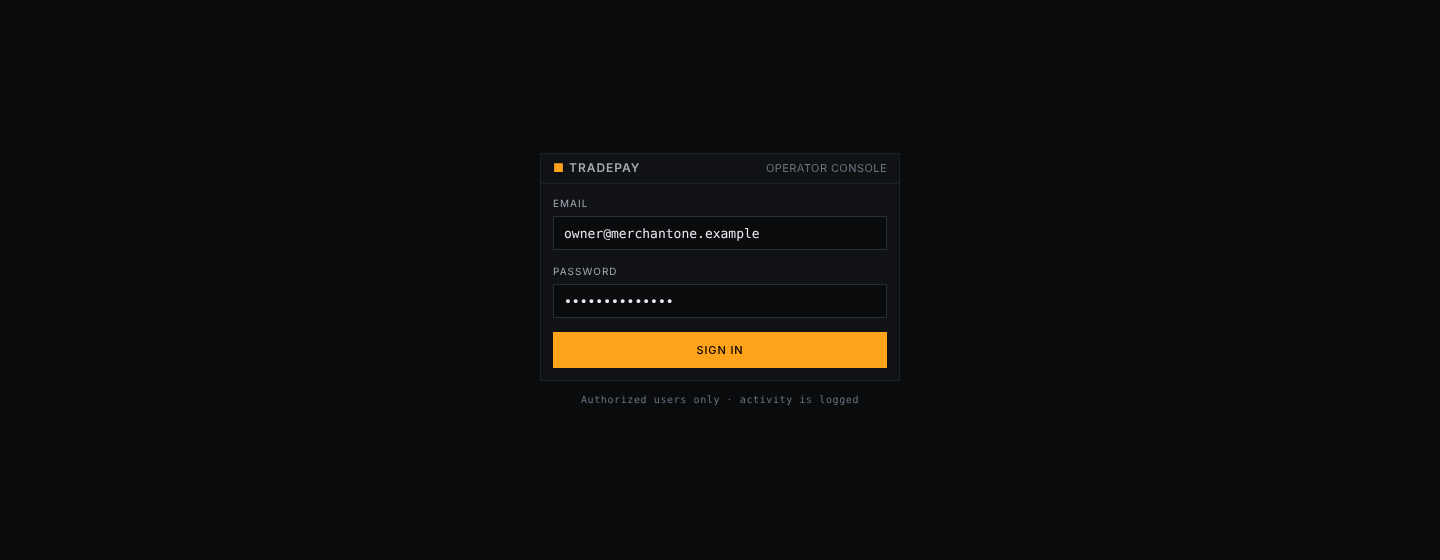
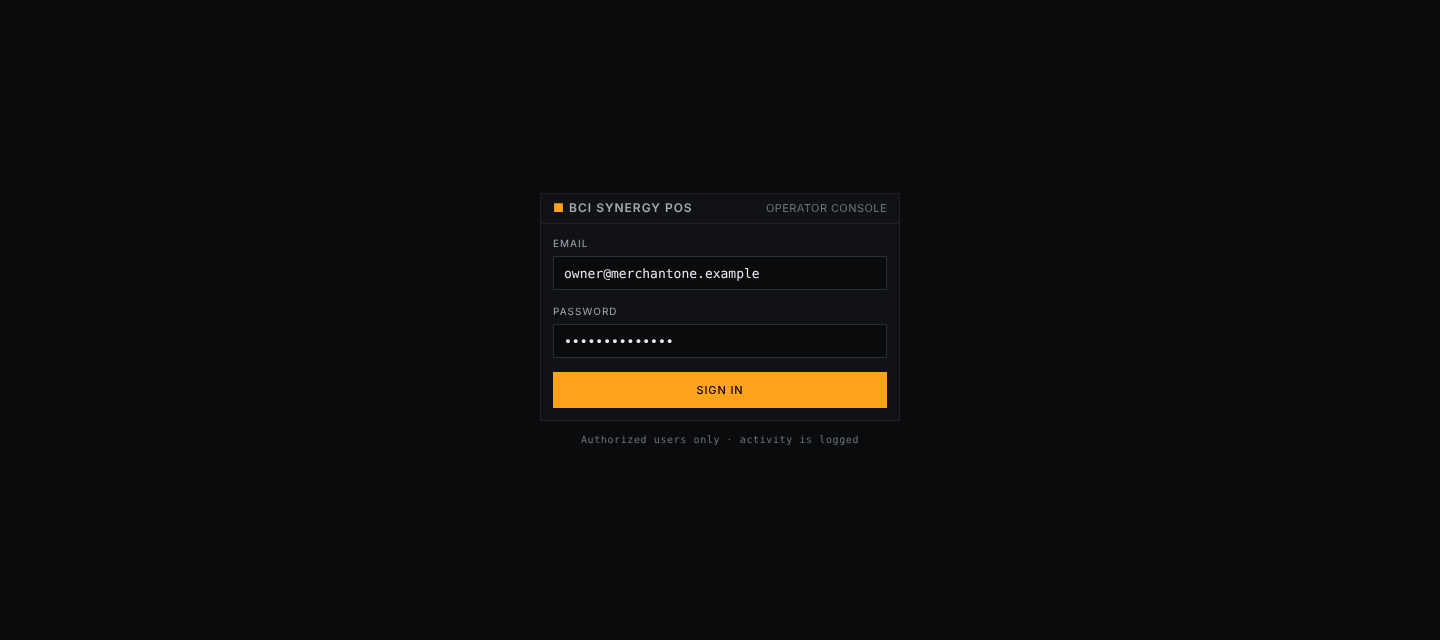
Rebrand to BCI Synergy POS
- Display name, page titles, pay page footer, previews
- Outbound webhook header: TradePay-Signature -> BCI-Signature
- API key prefix: tp_ -> bci_ (new keys only; existing keys still verify by hash)
- Package + default database name

Claude-Session: https://claude.ai/code/session_01Km3b9todDZA2vtKPBXto2d

Changed region(s): [[0.375, 0.3643, 0.625, 0.7286], [0.5312, 0.2732, 0.625, 0.3339], [0.375, 0.2732, 0.5, 0.3339]]

diff --git a/design/login-preview.html b/design/login-preview.html
@@ -1,5 +1,5 @@
 <!doctype html><html><head><meta charset=utf-8><style>/* ==========================================================================
-   TradePay design system — "terminal": crisp, dense, data-first.
+   BCI Synergy POS design system — "terminal": crisp, dense, data-first.
    Square corners, hairline rules, tabular numerals, one accent.
    Fonts: IBM Plex Sans / Plex Mono (self-host in /public/fonts for prod).
    ========================================================================== */
@@ -223,4 +223,4 @@ table.grid { width: 100%; border-collapse: collapse; font-size: 12px; }
 .userbox form { margin: 0; }
 .linkbtn { background: none; border: 0; color: var(--text-3); font: 11px var(--font-sans); letter-spacing: 0.06em; text-transform: uppercase; cursor: pointer; padding: 0; }
 .linkbtn:hover { color: var(--text); }
-</style></head><body><main class=login><div class="login-box panel"><div class=panel-h><span class=brand><b>■</b> TradePay</span><span class=tag>Operator console</span></div><div class=panel-b><form class=login-form><label><span class=field-label>Email</span><input class=input value="owner@merchantone.example"></label><label><span class=field-label>Password</span><input class=input type=password value="••••••••••••••"></label><button class="btn btn-primary">Sign in</button></form></div></div><div class="login-foot mono dim">Authorized users only · activity is logged</div></main></body></html>
+</style></head><body><main class=login><div class="login-box panel"><div class=panel-h><span class=brand><b>■</b> BCI Synergy POS</span><span class=tag>Operator console</span></div><div class=panel-b><form class=login-form><label><span class=field-label>Email</span><input class=input value="owner@merchantone.example"></label><label><span class=field-label>Password</span><input class=input type=password value="••••••••••••••"></label><button class="btn btn-primary">Sign in</button></form></div></div><div class="login-foot mono dim">Authorized users only · activity is logged</div></main></body></html>

diff --git a/design/billing-preview.html b/design/billing-preview.html
@@ -1,5 +1,5 @@
 <!doctype html><html><head><meta charset=utf-8><style>/* ==========================================================================
-   TradePay design system — "terminal": crisp, dense, data-first.
+   BCI Synergy POS design system — "terminal": crisp, dense, data-first.
    Square corners, hairline rules, tabular numerals, one accent.
    Fonts: IBM Plex Sans / Plex Mono (self-host in /public/fonts for prod).
    ========================================================================== */
@@ -224,7 +224,7 @@ table.grid { width: 100%; border-collapse: collapse; font-size: 12px; }
 .linkbtn { background: none; border: 0; color: var(--text-3); font: 11px var(--font-sans); letter-spacing: 0.06em; text-transform: uppercase; cursor: pointer; padding: 0; }
 .linkbtn:hover { color: var(--text); }
 </style></head><body>
-<header class=topbar><div class=brand><b>■</b> TradePay</div><nav class=nav><a>Console</a><a aria-current=page>Elite Billing</a></nav><div class=right><div class=userbox><span class=mono>admin@bcisynergy.com</span><span class='st st-OPEN'>PLATFORM ADMIN</span><button class=linkbtn>Sign out</button></div></div></header>
+<header class=topbar><div class=brand><b>■</b> BCI Synergy POS</div><nav class=nav><a>Console</a><a aria-current=page>Elite Billing</a></nav><div class=right><div class=userbox><span class=mono>admin@bcisynergy.com</span><span class='st st-OPEN'>PLATFORM ADMIN</span><button class=linkbtn>Sign out</button></div></div></header>
 <div class=ticker><span>ELITE MEMBERSHIP BILLING</span><span>DUES<b>$500.00/mo</b></span><span>PERIOD<b>2026-10</b></span><span>RULE<b>Processing revenue credited first · balance invoiced on the 1st</b></span></div>
 <div class=page><div class=kpis>
 <div class=kpi><div class=label>Elite members billed</div><div class=value>7</div><div class=delta>3 fully covered (free)</div></div>

diff --git a/design/console-preview.html b/design/console-preview.html
@@ -1,5 +1,5 @@
-<!doctype html><html><head><meta charset=utf-8><title>TradePay — Console preview</title><style>/* ==========================================================================
-   TradePay design system — "terminal": crisp, dense, data-first.
+<!doctype html><html><head><meta charset=utf-8><title>BCI Synergy POS — Console preview</title><style>/* ==========================================================================
+   BCI Synergy POS design system — "terminal": crisp, dense, data-first.
    Square corners, hairline rules, tabular numerals, one accent.
    Fonts: IBM Plex Sans / Plex Mono (self-host in /public/fonts for prod).
    ========================================================================== */
@@ -205,7 +205,7 @@ table.grid { width: 100%; border-collapse: collapse; font-size: 12px; }
 .result { padding: 32px 24px; text-align: center; }
 .result .big { font-family: var(--font-mono); font-size: 28px; margin: 8px 0; }
 </style></head><body>
-<header class=topbar><div class=brand><b>■</b> TradePay</div><nav class=nav><a aria-current=page>Console</a><a>Payments</a><a>Payouts</a><a>Disputes</a><a>Merchants</a></nav><div class=right><span class=mono>2026-11-13 05:30 UTC</span></div></header>
+<header class=topbar><div class=brand><b>■</b> BCI Synergy POS</div><nav class=nav><a aria-current=page>Console</a><a>Payments</a><a>Payouts</a><a>Disputes</a><a>Merchants</a></nav><div class=right><span class=mono>2026-11-13 05:30 UTC</span></div></header>
 <div class=ticker><span>MERCHANT ONE TOWING</span><span>VERTICAL<b>Towing</b></span><span>STATE<b>FL</b></span><span>PROGRAM<b>Cash Discount</b></span><span>TIER<b class=accent>ELITE</b></span><span>STATUS<b class=up>ACTIVE</b></span><span>PROVIDER<b>TILLED</b></span></div>
 <div class=page>
 <div class=kpis>

diff --git a/design/pay-preview.html b/design/pay-preview.html
@@ -1,5 +1,5 @@
 <!doctype html><html><head><meta charset=utf-8><meta name=viewport content="width=device-width,initial-scale=1"><title>Pay — Merchant One Towing</title><style>/* ==========================================================================
-   TradePay design system — "terminal": crisp, dense, data-first.
+   BCI Synergy POS design system — "terminal": crisp, dense, data-first.
    Square corners, hairline rules, tabular numerals, one accent.
    Fonts: IBM Plex Sans / Plex Mono (self-host in /public/fonts for prod).
    ========================================================================== */
@@ -209,4 +209,4 @@ table.grid { width: 100%; border-collapse: collapse; font-size: 12px; }
 <div class=pay-body><div><div class=price-row><span class=k>Cash / bank price</span><span class=v>$245.00</span></div><div class="price-row total"><span class=k>Card price</span><span class=v>$253.58</span></div></div>
 <div style="display:grid;gap:12px"><div><div class=field-label>Card</div><div class=hosted-field>4242 4242 4242 4242 &nbsp;&nbsp; 12/28 &nbsp;&nbsp; •••</div></div><button class="btn btn-primary">Pay now</button></div>
 <div class=disclosure>Prices shown are card prices. A discount is available when paying by cash or bank transfer (ACH). Card details are entered directly with our PCI-compliant payment processor and never stored by Merchant One Towing.</div></div>
-<div class=pay-foot><span>Secure payment</span><span>TradePay</span></div></div></div></main></body></html>
+<div class=pay-foot><span>Secure payment</span><span>BCI Synergy POS</span></div></div></div></main></body></html>

diff --git a/src/lib/services/outbound.ts b/src/lib/services/outbound.ts
@@ -3,7 +3,7 @@ import { randomToken, signWebhook } from "../crypto";
 
 /**
  * Deliver signed events to integrating systems (your dispatch SaaS, FSM, shop software).
- * Header: TradePay-Signature: t=<unix>,v1=<hmac_sha256(secret, t + "." + body)>
+ * Header: BCI-Signature: t=<unix>,v1=<hmac_sha256(secret, t + "." + body)>
  * Prod: move to a durable queue (e.g. pg-boss / SQS) with retries + backoff.
  */
 export async function emitEvent(merchantId: string, type: string, data: Record<string, unknown>) {
@@ -15,7 +15,7 @@ export async function emitEvent(merchantId: string, type: string, data: Record<s
     targets.map(async (e) => {
       const res = await fetch(e.url, {
         method: "POST",
-        headers: { "content-type": "application/json", "TradePay-Signature": signWebhook(e.secret, body) },
+        headers: { "content-type": "application/json", "BCI-Signature": signWebhook(e.secret, body) },
         body,
         signal: AbortSignal.timeout(5000),
       });

diff --git a/src/app/dashboard/Shell.tsx b/src/app/dashboard/Shell.tsx
@@ -21,7 +21,7 @@ export function Shell({
   return (
     <>
       <header className="topbar">
-        <div className="brand"><b>■</b> {process.env.BRAND_NAME ?? "TradePay"}</div>
+        <div className="brand"><b>■</b> {process.env.BRAND_NAME ?? "BCI Synergy POS"}</div>
         <nav className="nav">
           {NAV.filter((n) => !n.roles || n.roles.includes(user.role)).map((n) => (
             <a key={n.key} href={n.href} aria-current={active === n.key ? "page" : undefined}>{n.label}</a>

diff --git a/src/app/login/page.tsx b/src/app/login/page.tsx
@@ -10,7 +10,7 @@ export default async function LoginPage() {
     <main className="login">
       <div className="login-box panel">
         <div className="panel-h">
-          <span className="brand"><b>■</b> {process.env.BRAND_NAME ?? "TradePay"}</span>
+          <span className="brand"><b>■</b> {process.env.BRAND_NAME ?? "BCI Synergy POS"}</span>
           <span className="tag">Operator console</span>
         </div>
         <div className="panel-b">

diff --git a/src/app/globals.css b/src/app/globals.css
@@ -1,5 +1,5 @@
 /* ==========================================================================
-   TradePay design system — "terminal": crisp, dense, data-first.
+   BCI Synergy POS design system — "terminal": crisp, dense, data-first.
    Square corners, hairline rules, tabular numerals, one accent.
    Fonts: IBM Plex Sans / Plex Mono (self-host in /public/fonts for prod).
    ========================================================================== */

diff --git a/src/lib/crypto.ts b/src/lib/crypto.ts
@@ -11,7 +11,7 @@ export function sha256(s: string): string {
 /** Returns full key (show once) + prefix + hash (store). */
 export function generateApiKey(env: "live" | "test" = "test") {
   const secret = randomToken(32);
-  const prefix = `tp_${env}_${secret.slice(0, 8)}`;
+  const prefix = `bci_${env}_${secret.slice(0, 8)}`;
   const key = `${prefix}_${secret.slice(8)}`;
   return { key, prefix, hash: sha256(key) };
 }

diff --git a/src/lib/auth.ts b/src/lib/auth.ts
@@ -7,7 +7,7 @@ export class HttpError extends Error {
   }
 }
 
-/** Integration API auth: `Authorization: Bearer tp_test_...` → merchant. */
+/** Integration API auth: `Authorization: Bearer bci_test_...` → merchant. */
 export async function requireMerchantKey(req: Request) {
   const h = req.headers.get("authorization") ?? "";
   const key = h.startsWith("Bearer ") ? h.slice(7).trim() : "";

diff --git a/src/app/pay/[token]/page.tsx b/src/app/pay/[token]/page.tsx
@@ -70,7 +70,7 @@ export default async function PayPage({ params }: { params: { token: string } })
 
           <div className="pay-foot">
             <span>Secure payment</span>
-            <span>{process.env.BRAND_NAME ?? "TradePay"}</span>
+            <span>{process.env.BRAND_NAME ?? "BCI Synergy POS"}</span>
           </div>
         </div>
       </div>

diff --git a/src/app/layout.tsx b/src/app/layout.tsx
@@ -2,7 +2,7 @@ import type { Metadata } from "next";
 import "./globals.css";
 
 export const metadata: Metadata = {
-  title: process.env.BRAND_NAME ?? "TradePay",
+  title: process.env.BRAND_NAME ?? "BCI Synergy POS",
   description: "Payments for the trades.",
 };
 
